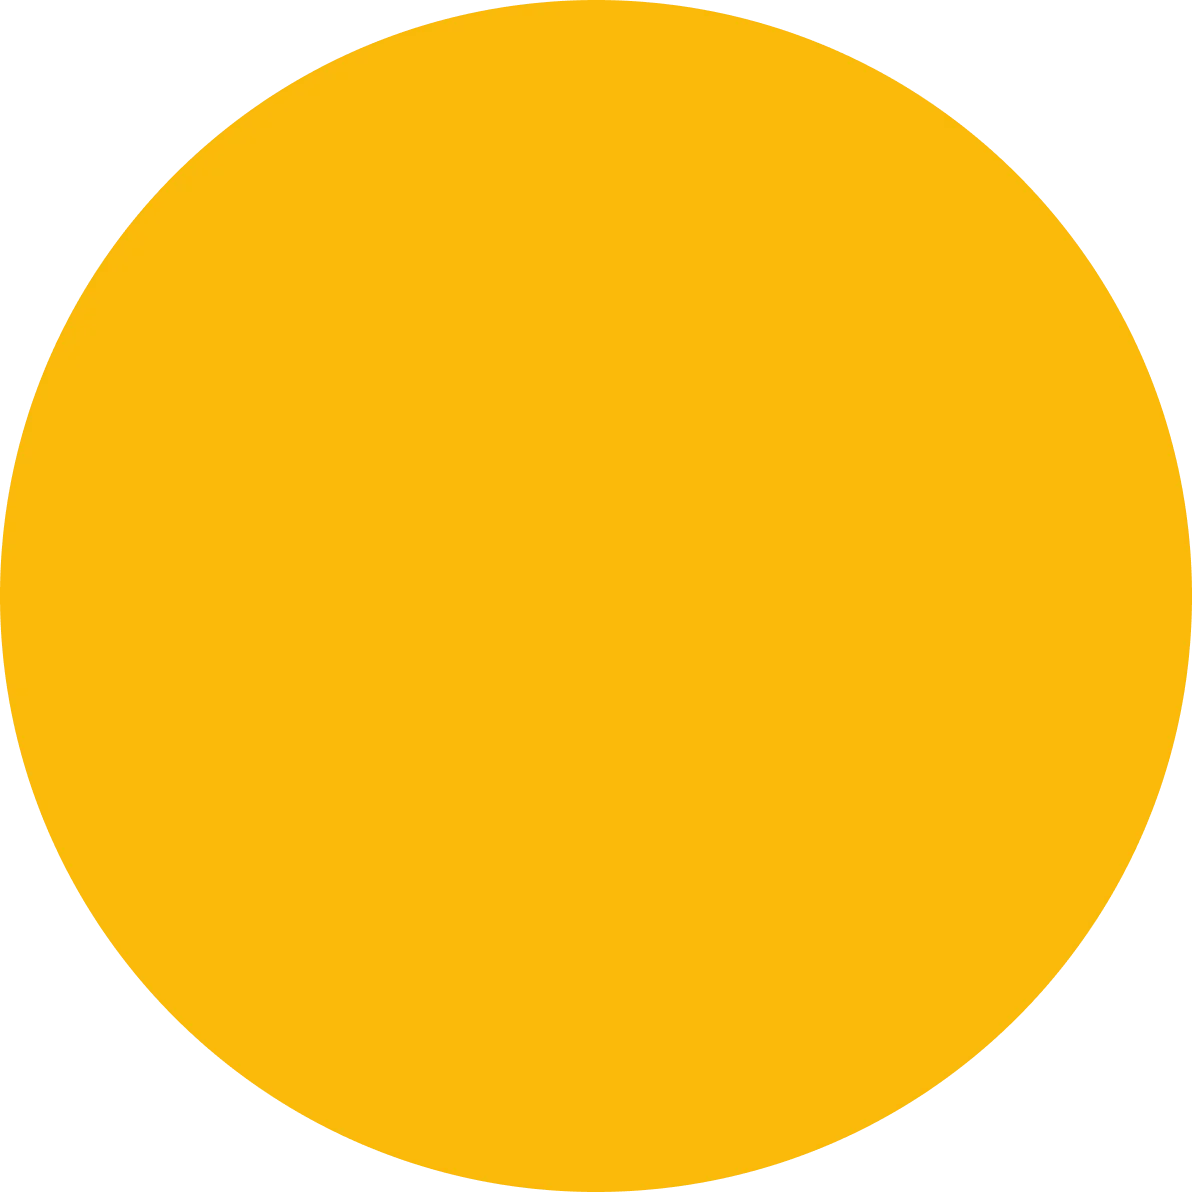
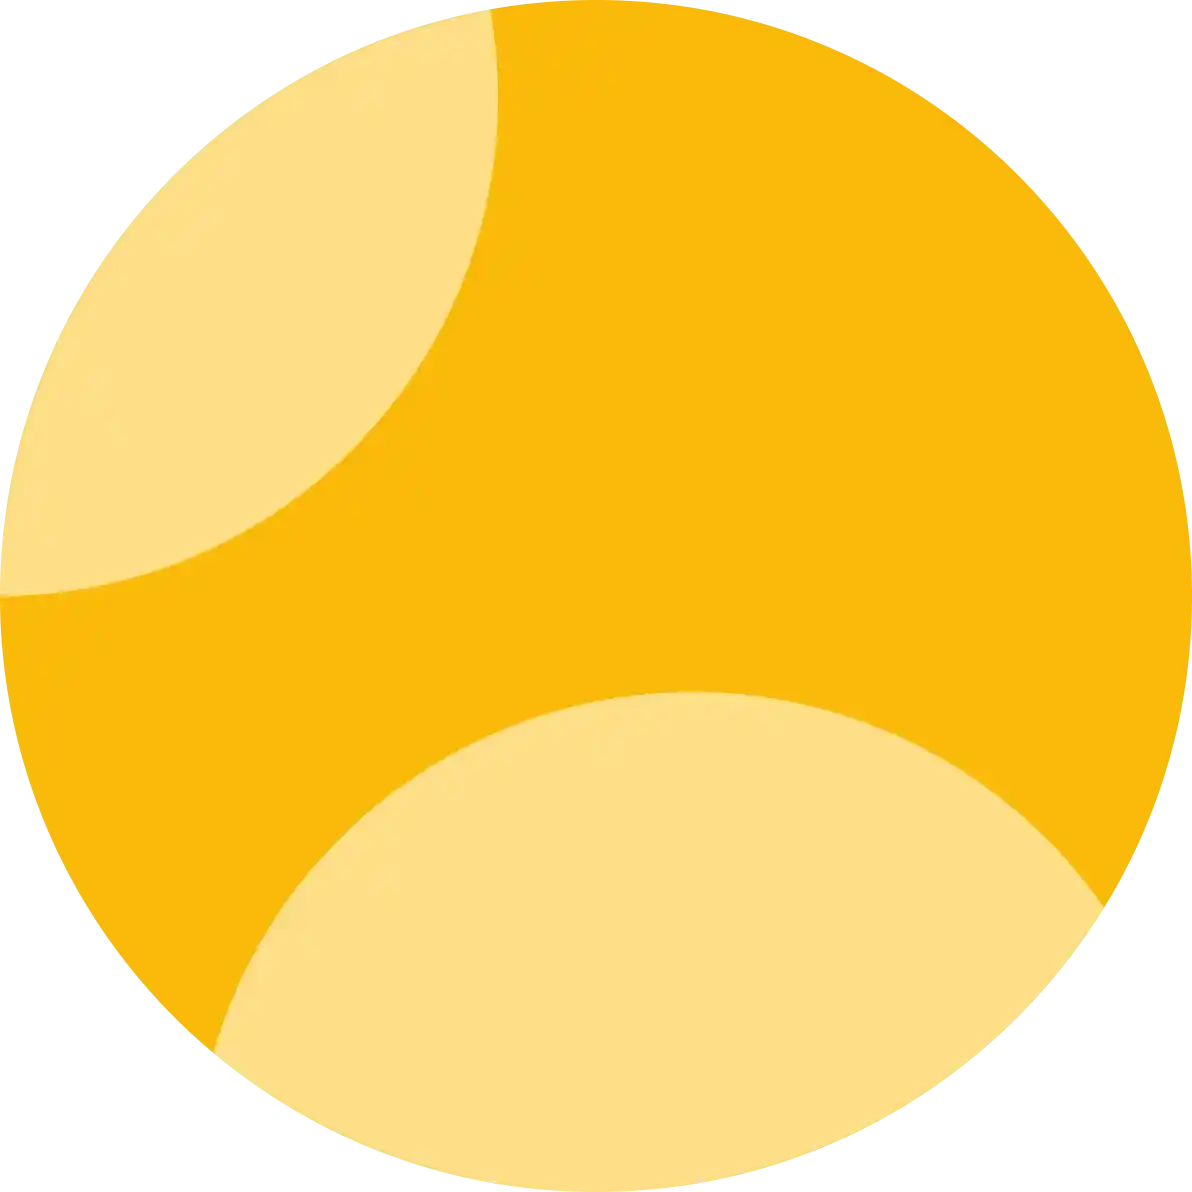
fix

diff --git a/src/ui/blocks/Hero/Hero.jsx b/src/ui/blocks/Hero/Hero.jsx
@@ -120,7 +120,7 @@ export default function Hero() {
                             <div className={classes.heroImgbg2}>
                                 <Image
                                     className={classes.bg}
-                                    src="/images/hero/bgMain2.webp"
+                                    src="/images/hero/bgMain3.webp"
                                     width={596}
                                     height={596}
                                     alt="Image ave mania"
@@ -129,7 +129,7 @@ export default function Hero() {
                             <div className={classes.heroImgbg3}>
                                 <Image
                                     className={classes.bg}
-                                    src="/images/hero/bgMain3.webp"
+                                    src="/images/hero/bgMain2.webp"
                                     width={596}
                                     height={596}
                                     alt="Image ave mania"

diff --git a/src/ui/blocks/CompetitionStages/CompetitionStages.module.scss b/src/ui/blocks/CompetitionStages/CompetitionStages.module.scss
@@ -325,11 +325,11 @@
 
                     .wrapImg {
                         bottom: -5%;
-                        z-index: 1;
+                        z-index: 0;
                     }
 
                     .wrapImgTwo {
-                        z-index: 0;
+                        z-index: -1;
 
                         @media screen and (min-width: $toggleDesktop) {
                             top: 50%;
@@ -346,6 +346,7 @@
                             transform: translateY(-50%);
                             left: 0;
                             display: block;
+                            z-index: -1;
                         }
                     }
                 }

diff --git a/src/ui/blocks/CategoriesWorkers/CategoriesWorkers.module.scss b/src/ui/blocks/CategoriesWorkers/CategoriesWorkers.module.scss
@@ -178,6 +178,7 @@
             position: absolute;
             right: -20%;
             bottom: -70%;
+            z-index: -1;
             animation: spinSelf 100s linear infinite;
 
             @media screen and (min-width: 2000px) {

diff --git a/src/ui/blocks/takeFaten/takeFaten.module.scss b/src/ui/blocks/takeFaten/takeFaten.module.scss
@@ -132,6 +132,7 @@
             .bgLeft {
                 position: absolute;
                 left: -17%;
+                z-index: 0;
 
                 .itemOne {
                     position: relative;
